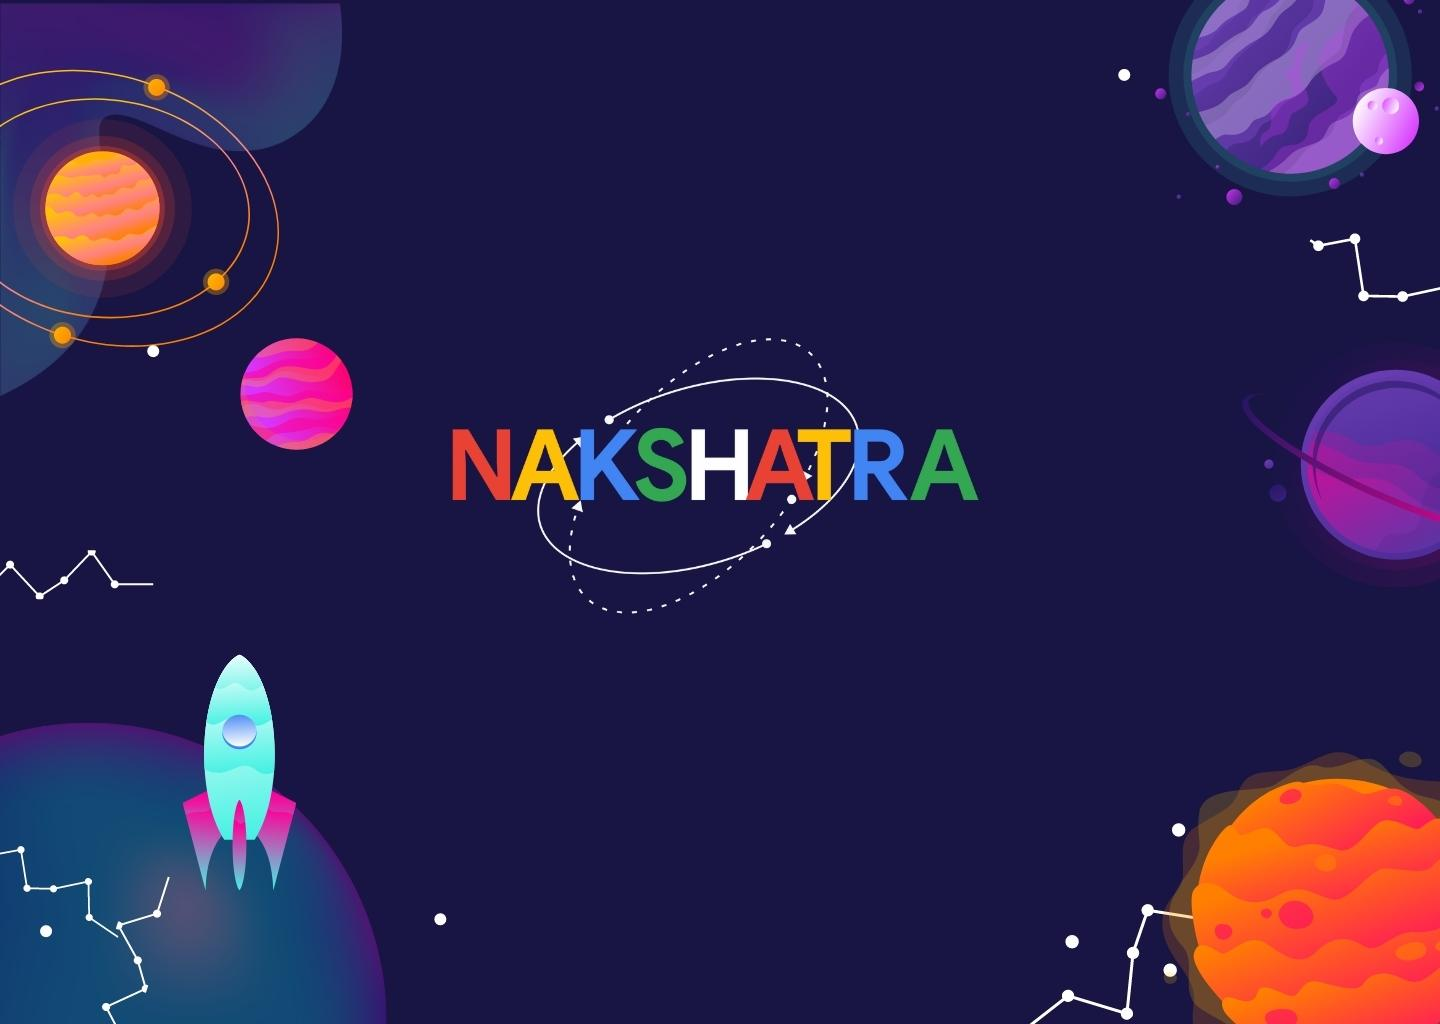
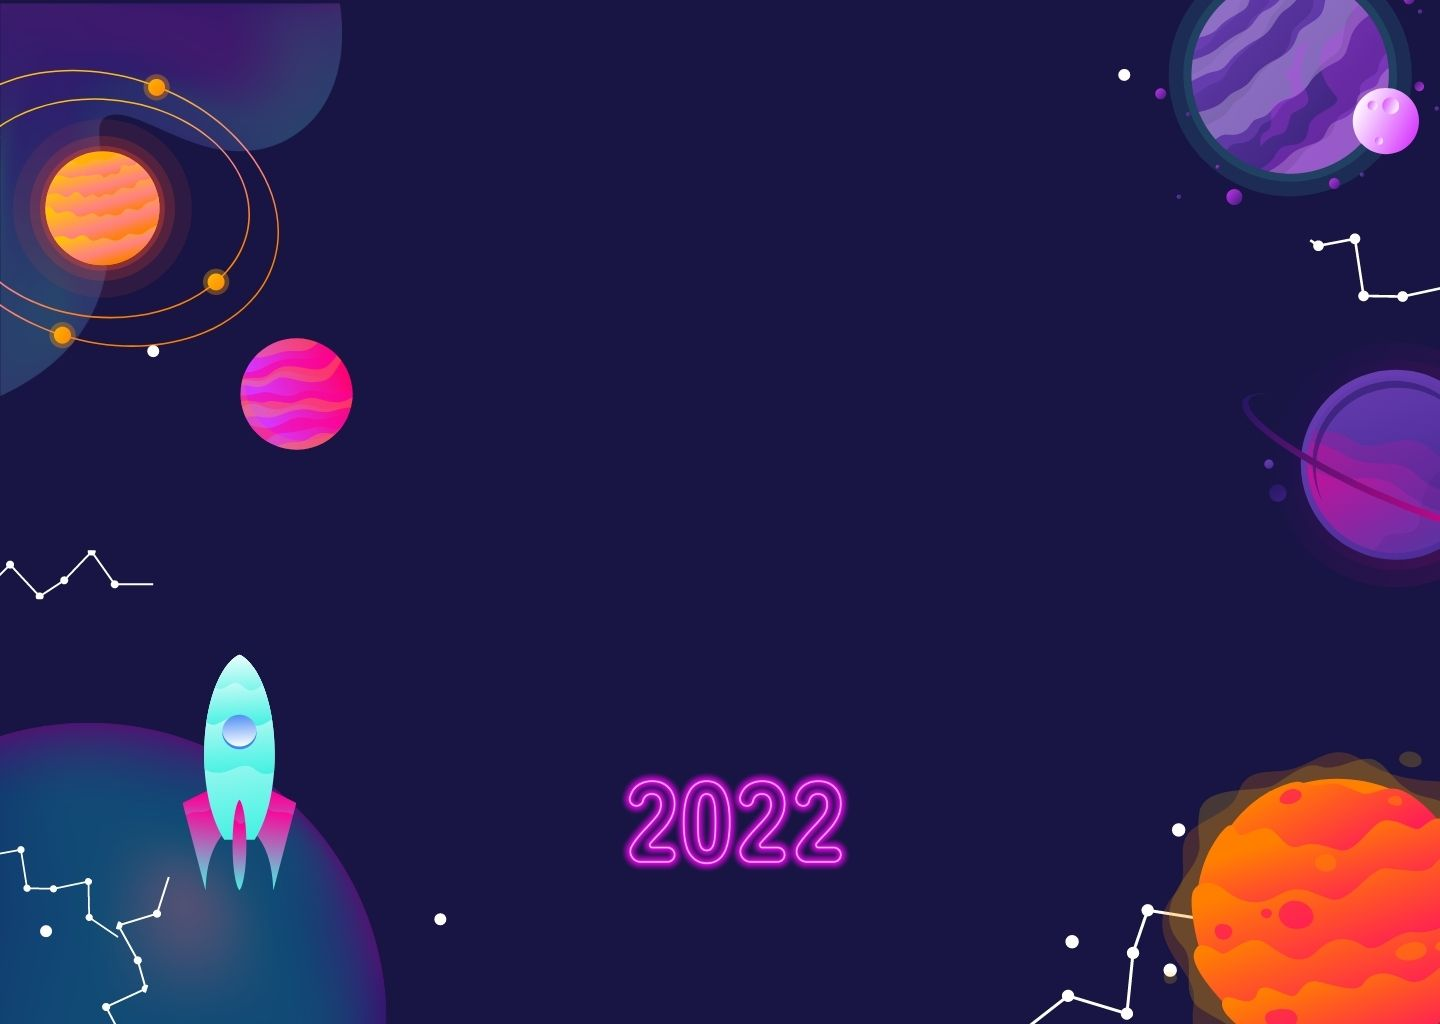
heading glow text

diff --git a/components/Hero.module.css b/components/Hero.module.css
@@ -2,15 +2,20 @@
     height: 100vh;
     width: 100%;
     background-image: url('../public/banner.jpg');
-    background-position: center;
+    background-position-x:center;
+    background-position-y:center;
     background-repeat: no-repeat;
-    background-size: cover;
+    background-size:cover;
     display: flex;
     flex-direction: column;
     align-items: center;
     padding-top: 10rem;
 }
 .hero h1{
+    font-weight: 500;
+    letter-spacing: 3px;
     font-size: 3rem;
     text-align: center;
+    color: #fff;
+    text-shadow:0 0 7px #fff,    0 0 10px #fff,    0 0 21px #fff;
 }

diff --git a/components/Navbar.module.css b/components/Navbar.module.css
@@ -15,7 +15,7 @@
 }
 .navbar{
     display: flex;
-    align-items: center;
+    padding-top: 2rem;
 }
 .navbar ul{
     list-style: none;
